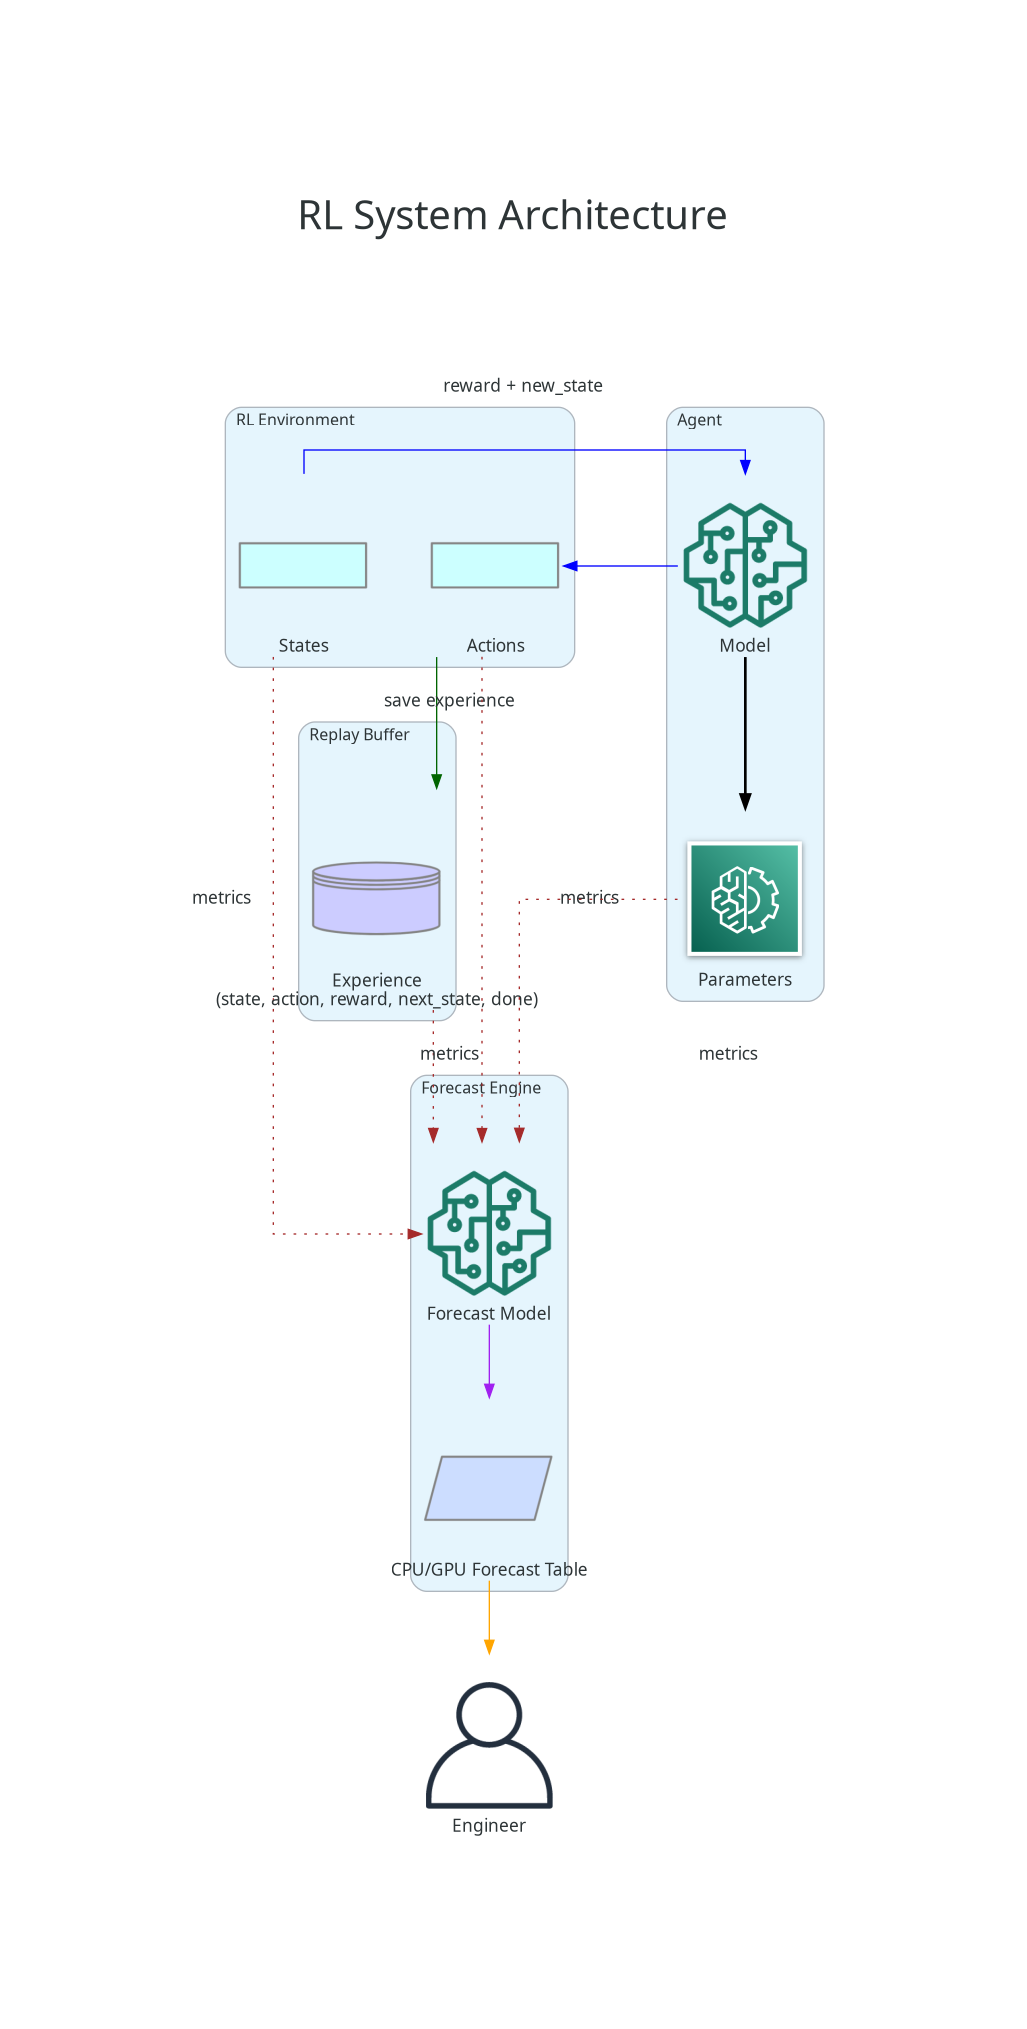
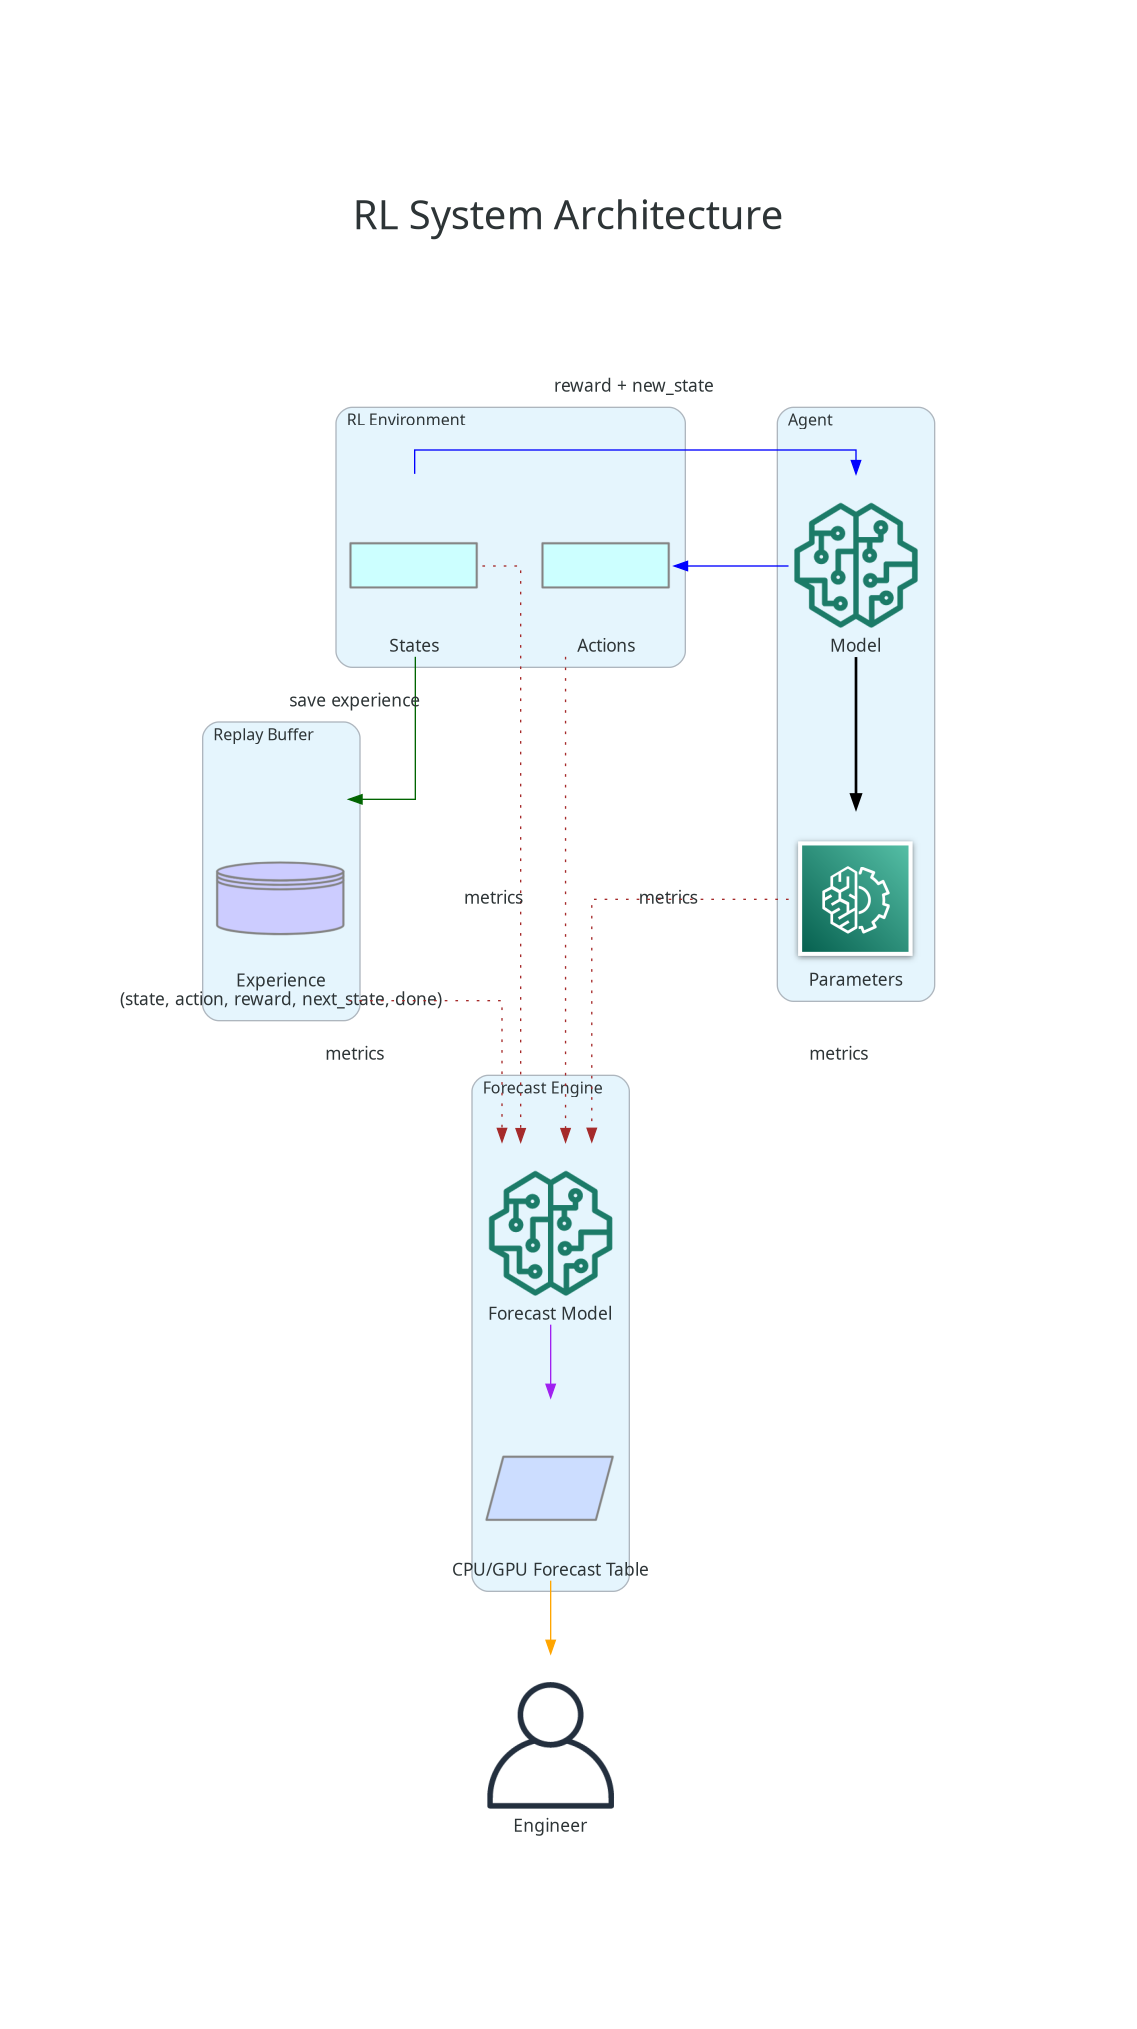
design pattern

diff --git a/architecture/system.py b/architecture/system.py
@@ -4,13 +4,14 @@ from diagrams.programming.flowchart import Database, InputOutput, Action
 from diagrams.aws.ml import SagemakerModel, MachineLearning
 from diagrams.onprem.client import User
 
+
 def rl_system_architecture(filename="rl_system_architecture"):
     with Diagram(
         "RL System Architecture",
         filename=filename,
         show=False,
         direction="TB",
-        graph_attr={"labelloc": "t", "fontsize": "30"}
+        graph_attr={"labelloc": "t", "fontsize": "30"},
     ):
         user = User("Engineer")
 
@@ -26,7 +27,9 @@ def rl_system_architecture(filename="rl_system_architecture"):
 
         # Replay Buffer cluster
         with Cluster("Replay Buffer"):
-            experience = Database("Experience\n(state, action, reward, next_state, done)")
+            experience = Database(
+                "Experience\n(state, action, reward, next_state, done)"
+            )
 
         # Forecast Engine cluster
         with Cluster("Forecast Engine"):
@@ -36,22 +39,38 @@ def rl_system_architecture(filename="rl_system_architecture"):
         # Main RL flow
         states >> Edge(label="reward + new_state", color="blue") >> model
         model >> Edge(label="action", color="blue") >> actions
-        
+
         # Experience is saved after environment step
-        actions >> Edge(label="save experience", color="darkgreen") >> experience
+        (
+            actions,
+            states >> Edge(label="save experience", color="darkgreen") >> experience,
+        )
 
         # agent parameters
         model >> Edge(color="black", style="bold") >> parameters
 
         # Metrics to forecast model (dotted brown)
         states >> Edge(style="dotted", color="brown", label="metrics") >> forecast_model
-        actions >> Edge(style="dotted", color="brown", label="metrics") >> forecast_model
-        parameters >> Edge(style="dotted", color="brown", label="metrics") >> forecast_model
-        experience >> Edge(style="dotted", color="brown", label="metrics") >> forecast_model
+        (
+            actions
+            >> Edge(style="dotted", color="brown", label="metrics")
+            >> forecast_model
+        )
+        (
+            parameters
+            >> Edge(style="dotted", color="brown", label="metrics")
+            >> forecast_model
+        )
+        (
+            experience
+            >> Edge(style="dotted", color="brown", label="metrics")
+            >> forecast_model
+        )
 
         # Forecast model output
         forecast_model >> Edge(color="purple") >> forecast_table
         forecast_table >> Edge(color="orange") >> user
+
 
 if __name__ == "__main__":
     rl_system_architecture(filename="architecture/images/rl_system_architecture")

diff --git a/architecture/design_pattern.py b/architecture/design_pattern.py
@@ -1,0 +1,68 @@
+from diagrams import Diagram, Cluster, Edge
+from diagrams.generic.compute import Rack
+from diagrams.programming.flowchart import InputOutput, Action
+from diagrams.aws.ml import MachineLearning
+from diagrams.onprem.client import User
+from diagrams.aws.management import OpsworksMonitoring
+
+
+def simple_memory_forecast_pattern(
+    filename="simple_memory_forecast_pattern", advanced=False
+):
+    with Diagram(
+        "Simple Memory Forecast Design Pattern",
+        filename=filename,
+        show=False,
+        direction="TB",
+        graph_attr={"labelloc": "t", "fontsize": "24"},
+    ):
+        user = User("Engineer")
+        # Inputs
+        agent_params = MachineLearning("Agent Parameters")
+        states = Action("State Representation")
+        actions = Action("Action Representation")
+        # Forecast Model
+        forecast_model = Rack("Forecast Model")
+        forecast_table = InputOutput("CPU/GPU Forecast Table")
+
+        # Data flow
+        if not advanced:
+            (
+                user
+                >> Edge(color="black", style="dotted")
+                >> [agent_params, states, actions]
+                >> Edge(color="blue", style="dotted")
+                >> forecast_model
+                >> forecast_table
+            )
+            return 1
+
+        with Cluster("Sampling Features (from Training)"):
+            gpu_metrics = OpsworksMonitoring("gpu_metrics")
+            cpu_metrics = OpsworksMonitoring("cpu_metrics")
+            buffer = OpsworksMonitoring("replay_buffer_metrics")
+
+        (
+            user
+            >> Edge(color="black", style="dotted")
+            >> [agent_params, states, actions]
+            >> Edge(color="blue", style="dotted")
+            >> forecast_model
+        )
+        (
+            user
+            >> Edge(color="black", style="dotted")
+            >> [gpu_metrics, cpu_metrics, buffer]
+            >> Edge(color="brown", style="dotted")
+            >> forecast_model
+        )
+        forecast_model >> Edge(color="green", style="bold") >> forecast_table
+
+
+if __name__ == "__main__":
+    simple_memory_forecast_pattern(
+        filename="architecture/images/simple_memory_forecast_pattern", advanced=False
+    )
+    simple_memory_forecast_pattern(
+        filename="architecture/images/advanced_memory_forecast_pattern", advanced=True
+    )

diff --git a/estimation_model/baseline.py b/estimation_model/baseline.py
@@ -114,7 +114,7 @@ print(f"MAE: Mean={-mae_scores.mean():.3f} MB, Std={mae_scores.std():.3f}")
 print(f"RMSE: Mean={-rmse_scores.mean():.3f} MB, Std={rmse_scores.std():.3f}")
 print(f"R²: Mean={r2_scores.mean():.6f}, Std={r2_scores.std():.6f}")
 
-with open('estimation_model/model_results.txt', 'w') as f:
+with open("estimation_model/model_results.txt", "w") as f:
     f.write(f"MAE: Mean={-mae_scores.mean():.3f} MB, Std={mae_scores.std():.3f}\n")
     f.write(f"RMSE: Mean={-rmse_scores.mean():.3f} MB, Std={rmse_scores.std():.3f}\n")
     f.write(f"R²: Mean={r2_scores.mean():.6f}, Std={r2_scores.std():.6f}\n")
